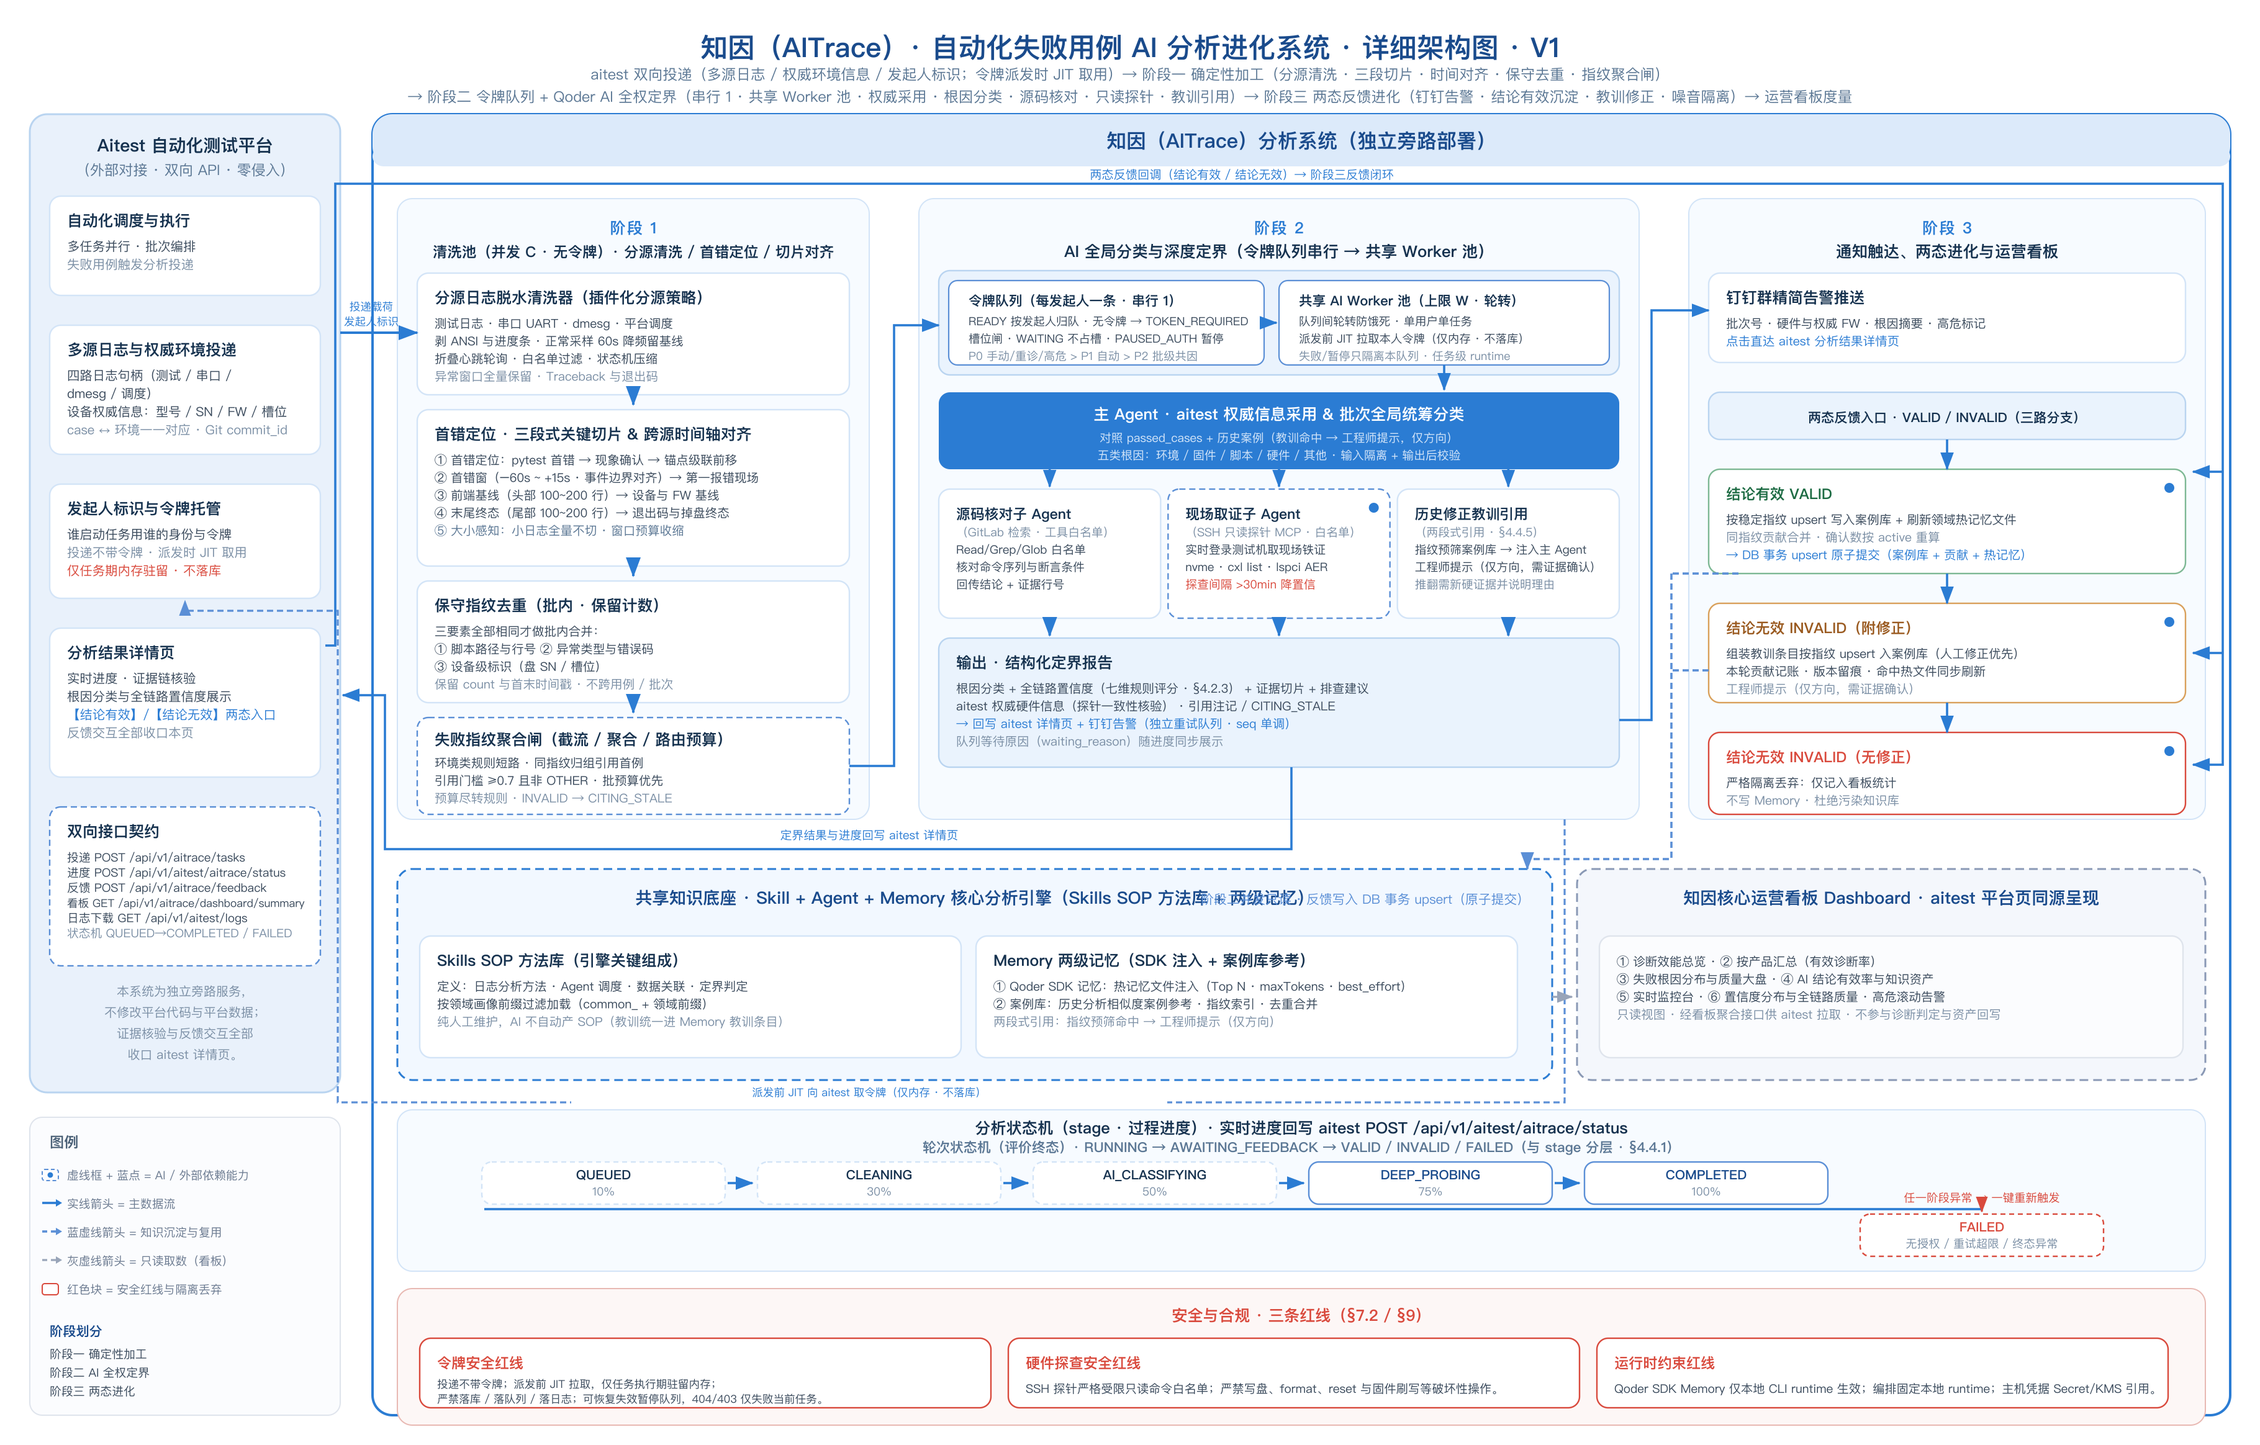
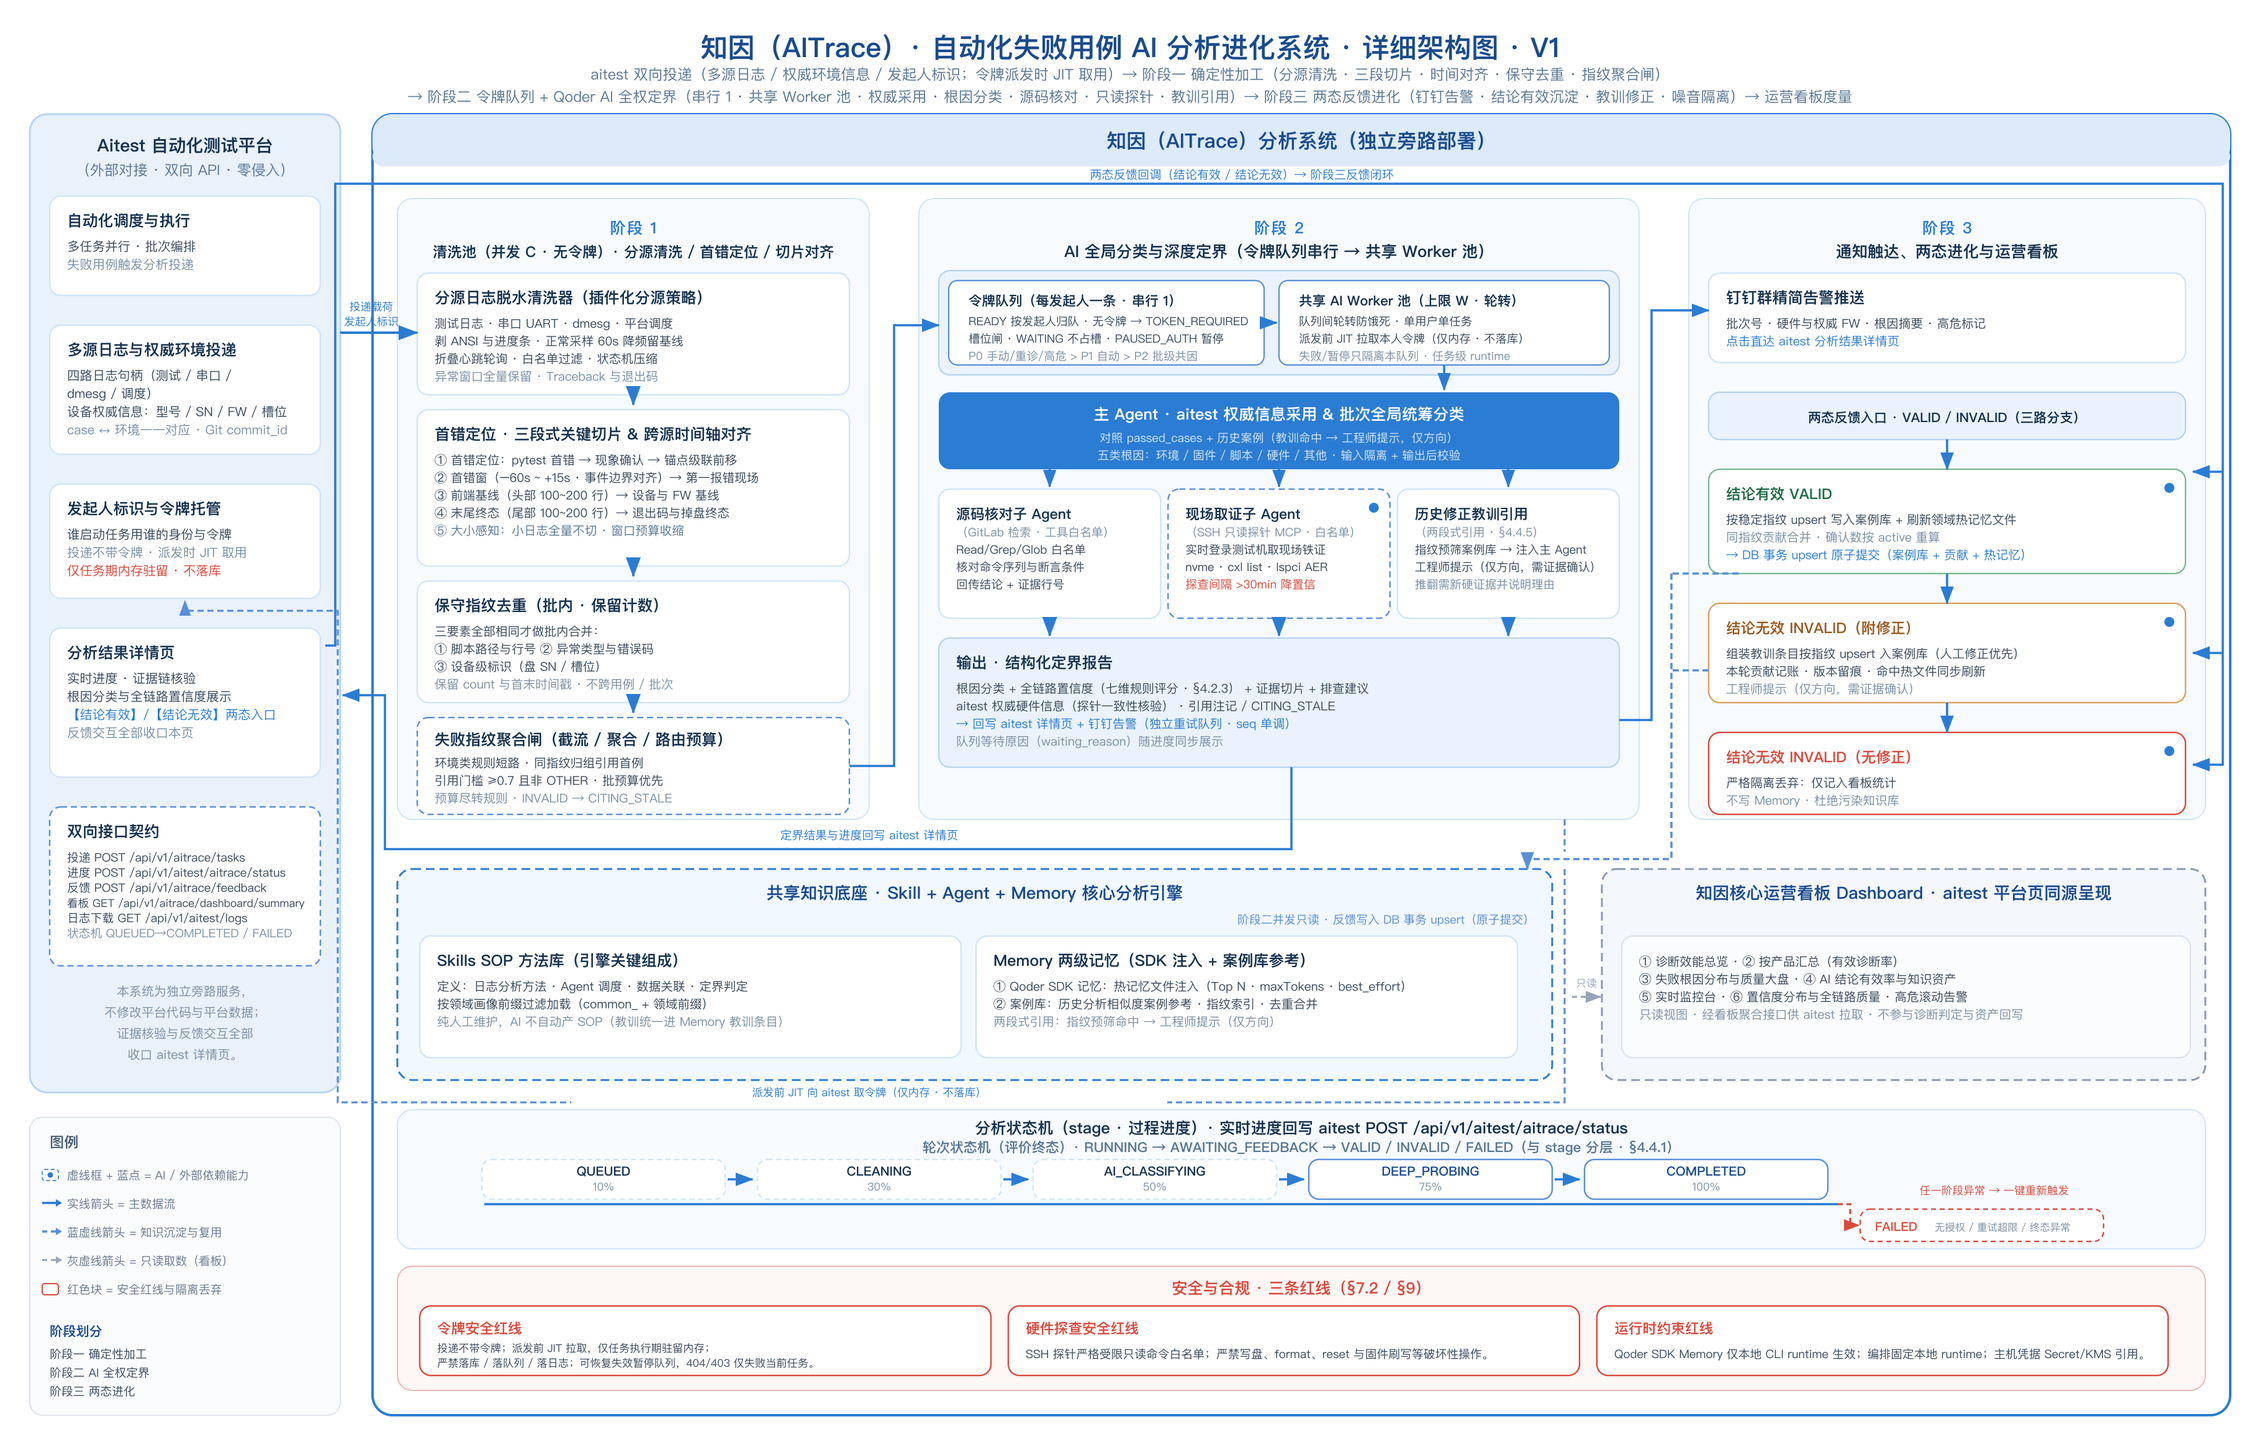
fig: 详版图修正知识底座标题重叠与虚线断口，压缩状态机与安全区收进外框底线并重渲染 PNG、同步 HTML

diff --git a/architecture-v1-detail.html b/architecture-v1-detail.html
@@ -189,8 +189,8 @@
 <line x1="1568.0" y1="462" x2="1568.0" y2="486" stroke="#2b7cd3" stroke-width="1.8" marker-end="url(#b)"/>
 <line x1="1568.0" y1="566" x2="1568.0" y2="590" stroke="#2b7cd3" stroke-width="1.8" marker-end="url(#b)"/>
 <rect x="320" y="700" width="930" height="170" rx="12" fill="#f2f8ff" stroke="#2b7cd3" stroke-width="1.5" stroke-dasharray="7 4"/>
-<text x="785.0" y="728" text-anchor="middle" font-size="13.6" font-weight="700" fill="#1a4b8c">共享知识底座 · Skill + Agent + Memory 核心分析引擎（Skills SOP 方法库 + 两级记忆）</text>
-<text x="1232" y="728" text-anchor="end" font-size="10.4" fill="#5b8fd6">阶段二并发只读 · 反馈写入 DB 事务 upsert（原子提交）</text>
+<text x="785.0" y="724" text-anchor="middle" font-size="13.6" font-weight="700" fill="#1a4b8c">共享知识底座 · Skill + Agent + Memory 核心分析引擎</text>
+<text x="1236" y="744" text-anchor="end" font-size="9.4" fill="#5b8fd6">阶段二并发只读 · 反馈写入 DB 事务 upsert（原子提交）</text>
 <rect x="338" y="754" width="436" height="98" rx="9" fill="#ffffff" stroke="#d3e4f7" stroke-width="1.2"/>
 <text x="352" y="778" font-size="12.4" font-weight="700" fill="#16324f">Skills SOP 方法库（引擎关键组成）</text>
 <text x="352" y="798.0" font-size="9.8" fill="#3a4a5c">定义：日志分析方法 · Agent 调度 · 数据关联 · 定界判定</text>
@@ -201,53 +201,53 @@
 <text x="800" y="798.0" font-size="9.8" fill="#3a4a5c">① Qoder SDK 记忆：热记忆文件注入（Top N · maxTokens · best_effort）</text>
 <text x="800" y="812.2" font-size="9.8" fill="#3a4a5c">② 案例库：历史分析相似度案例参考 · 指纹索引 · 去重合并</text>
 <text x="800" y="826.4" font-size="9.8" fill="#7b8fa5">两段式引用：指纹预筛命中 → 工程师提示（仅方向）</text>
-<rect x="1270" y="700" width="506" height="170" rx="12" fill="#f4f7fc" stroke="#8a99b5" stroke-width="1.5" stroke-dasharray="7 4"/>
-<text x="1523.0" y="728" text-anchor="middle" font-size="13.6" font-weight="700" fill="#1a4b8c">知因核心运营看板  Dashboard · aitest 平台页同源呈现</text>
-<rect x="1288" y="754" width="470" height="98" rx="9" fill="#fbfcfe" stroke="#dfe4ec" stroke-width="1.2"/>
-<text x="1302" y="778.0" font-size="9.8" fill="#3a4a5c">① 诊断效能总览 · ② 按产品汇总（有效诊断率）</text>
-<text x="1302" y="792.2" font-size="9.8" fill="#3a4a5c">③ 失败根因分布与质量大盘 · ④ AI 结论有效率与知识资产</text>
-<text x="1302" y="806.4" font-size="9.8" fill="#3a4a5c">⑤ 实时监控台 · ⑥ 置信度分布与全链路质量 · 高危滚动告警</text>
-<text x="1302" y="820.6" font-size="9.8" fill="#7b8fa5">只读视图 · 经看板聚合接口供 aitest 拉取 · 不参与诊断判定与资产回写</text>
-<rect x="320" y="894" width="1456" height="130" rx="12" fill="#f7fbff" stroke="#d3e4f7" stroke-width="1"/>
+<rect x="1290" y="700" width="486" height="170" rx="12" fill="#f4f7fc" stroke="#8a99b5" stroke-width="1.5" stroke-dasharray="7 4"/>
+<text x="1533.0" y="724" text-anchor="middle" font-size="13.6" font-weight="700" fill="#1a4b8c">知因核心运营看板  Dashboard · aitest 平台页同源呈现</text>
+<rect x="1306" y="754" width="458" height="98" rx="9" fill="#fbfcfe" stroke="#dfe4ec" stroke-width="1.2"/>
+<text x="1320" y="778.0" font-size="9.8" fill="#3a4a5c">① 诊断效能总览 · ② 按产品汇总（有效诊断率）</text>
+<text x="1320" y="792.2" font-size="9.8" fill="#3a4a5c">③ 失败根因分布与质量大盘 · ④ AI 结论有效率与知识资产</text>
+<text x="1320" y="806.4" font-size="9.8" fill="#3a4a5c">⑤ 实时监控台 · ⑥ 置信度分布与全链路质量 · 高危滚动告警</text>
+<text x="1320" y="820.6" font-size="9.8" fill="#7b8fa5">只读视图 · 经看板聚合接口供 aitest 拉取 · 不参与诊断判定与资产回写</text>
+<rect x="320" y="894" width="1456" height="112" rx="12" fill="#f7fbff" stroke="#d3e4f7" stroke-width="1"/>
 <text x="1048.0" y="913" text-anchor="middle" font-size="12.6" font-weight="700" fill="#16324f">分析状态机（stage · 过程进度）· 实时进度回写 aitest  POST /api/v1/aitest/aitrace/status</text>
 <text x="1048.0" y="928" text-anchor="middle" font-size="11" font-weight="600" fill="#5b7794">轮次状态机（评价终态）· RUNNING → AWAITING_FEEDBACK → VALID / INVALID / FAILED（与 stage 分层 · §4.4.1）</text>
-<rect x="388" y="936" width="196" height="34" rx="8" fill="#ffffff" stroke="#d3e4f7" stroke-width="1.2" stroke-dasharray="4 3"/>
-<text x="486.0" y="950" text-anchor="middle" font-size="10.4" font-weight="700" fill="#16324f">QUEUED</text>
-<text x="486.0" y="963" text-anchor="middle" font-size="9.2" fill="#7b8fa5">10%</text>
-<line x1="586" y1="953" x2="606" y2="953" stroke="#2b7cd3" stroke-width="1.8" marker-end="url(#b)"/>
-<rect x="610" y="936" width="196" height="34" rx="8" fill="#ffffff" stroke="#d3e4f7" stroke-width="1.2" stroke-dasharray="4 3"/>
-<text x="708.0" y="950" text-anchor="middle" font-size="10.4" font-weight="700" fill="#16324f">CLEANING</text>
-<text x="708.0" y="963" text-anchor="middle" font-size="9.2" fill="#7b8fa5">30%</text>
-<line x1="808" y1="953" x2="828" y2="953" stroke="#2b7cd3" stroke-width="1.8" marker-end="url(#b)"/>
-<rect x="832" y="936" width="196" height="34" rx="8" fill="#ffffff" stroke="#d3e4f7" stroke-width="1.2" stroke-dasharray="4 3"/>
-<text x="930.0" y="950" text-anchor="middle" font-size="10.4" font-weight="700" fill="#16324f">AI_CLASSIFYING</text>
-<text x="930.0" y="963" text-anchor="middle" font-size="9.2" fill="#7b8fa5">50%</text>
-<line x1="1030" y1="953" x2="1050" y2="953" stroke="#2b7cd3" stroke-width="1.8" marker-end="url(#b)"/>
-<rect x="1054" y="936" width="196" height="34" rx="8" fill="#ffffff" stroke="#5b8fd6" stroke-width="1.2"/>
-<text x="1152.0" y="950" text-anchor="middle" font-size="10.4" font-weight="700" fill="#1a4b8c">DEEP_PROBING</text>
-<text x="1152.0" y="963" text-anchor="middle" font-size="9.2" fill="#7b8fa5">75%</text>
-<line x1="1252" y1="953" x2="1272" y2="953" stroke="#2b7cd3" stroke-width="1.8" marker-end="url(#b)"/>
-<rect x="1276" y="936" width="196" height="34" rx="8" fill="#ffffff" stroke="#5b8fd6" stroke-width="1.2"/>
-<text x="1374.0" y="950" text-anchor="middle" font-size="10.4" font-weight="700" fill="#1a4b8c">COMPLETED</text>
-<text x="1374.0" y="963" text-anchor="middle" font-size="9.2" fill="#7b8fa5">100%</text>
-<rect x="1498" y="978" width="196" height="34" rx="8" fill="#ffffff" stroke="#d94a3d" stroke-width="1.2" stroke-dasharray="4 3"/>
-<text x="1596.0" y="992" text-anchor="middle" font-size="10.4" font-weight="700" fill="#d94a3d">FAILED</text>
-<text x="1596.0" y="1005" text-anchor="middle" font-size="9.2" fill="#7b8fa5">无授权 / 重试超限 / 终态异常</text>
-<path d="M 390 974 L 1596 974" fill="none" stroke="#2b7cd3" stroke-width="1.8"/>
-<line x1="1596" y1="974" x2="1596" y2="976" stroke="#d94a3d" stroke-width="1.6" stroke-dasharray="4 3" marker-end="url(#r)"/>
-<text x="1596.0" y="968" text-anchor="middle" font-size="9.2" fill="#d94a3d">任一阶段异常 → 一键重新触发</text>
-<rect x="320" y="1038" width="1456" height="110" rx="12" fill="#fdf7f6" stroke="#e8b9b3" stroke-width="1"/>
-<text x="1048.0" y="1064" text-anchor="middle" font-size="12.6" font-weight="700" fill="#d94a3d">安全与合规 · 三条红线（§7.2 / §9）</text>
-<rect x="338" y="1078" width="460" height="56" rx="9" fill="#ffffff" stroke="#d94a3d" stroke-width="1.2"/>
-<text x="352" y="1102" font-size="11.6" font-weight="700" fill="#d94a3d">令牌安全红线</text>
-<text x="352" y="1118.0" font-size="8.8" fill="#3a4a5c">投递不带令牌；派发前 JIT 拉取，仅任务执行期驻留内存；</text>
-<text x="352" y="1130.0" font-size="8.8" fill="#3a4a5c">严禁落库 / 落队列 / 落日志；可恢复失效暂停队列，404/403 仅失败当前任务。</text>
-<rect x="812" y="1078" width="460" height="56" rx="9" fill="#ffffff" stroke="#d94a3d" stroke-width="1.2"/>
-<text x="826" y="1102" font-size="11.6" font-weight="700" fill="#d94a3d">硬件探查安全红线</text>
-<text x="826" y="1122.0" font-size="9.6" fill="#3a4a5c">SSH 探针严格受限只读命令白名单；严禁写盘、format、reset 与固件刷写等破坏性操作。</text>
-<rect x="1286" y="1078" width="460" height="56" rx="9" fill="#ffffff" stroke="#d94a3d" stroke-width="1.2"/>
-<text x="1300" y="1102" font-size="11.6" font-weight="700" fill="#d94a3d">运行时约束红线</text>
-<text x="1300" y="1122.0" font-size="9.6" fill="#3a4a5c">Qoder SDK Memory 仅本地 CLI runtime 生效；编排固定本地 runtime；主机凭据 Secret/KMS 引用。</text>
+<rect x="388" y="934" width="196" height="32" rx="8" fill="#ffffff" stroke="#d3e4f7" stroke-width="1.2" stroke-dasharray="4 3"/>
+<text x="486.0" y="947" text-anchor="middle" font-size="10.2" font-weight="700" fill="#16324f">QUEUED</text>
+<text x="486.0" y="959" text-anchor="middle" font-size="8.8" fill="#7b8fa5">10%</text>
+<line x1="586" y1="950" x2="606" y2="950" stroke="#2b7cd3" stroke-width="1.8" marker-end="url(#b)"/>
+<rect x="610" y="934" width="196" height="32" rx="8" fill="#ffffff" stroke="#d3e4f7" stroke-width="1.2" stroke-dasharray="4 3"/>
+<text x="708.0" y="947" text-anchor="middle" font-size="10.2" font-weight="700" fill="#16324f">CLEANING</text>
+<text x="708.0" y="959" text-anchor="middle" font-size="8.8" fill="#7b8fa5">30%</text>
+<line x1="808" y1="950" x2="828" y2="950" stroke="#2b7cd3" stroke-width="1.8" marker-end="url(#b)"/>
+<rect x="832" y="934" width="196" height="32" rx="8" fill="#ffffff" stroke="#d3e4f7" stroke-width="1.2" stroke-dasharray="4 3"/>
+<text x="930.0" y="947" text-anchor="middle" font-size="10.2" font-weight="700" fill="#16324f">AI_CLASSIFYING</text>
+<text x="930.0" y="959" text-anchor="middle" font-size="8.8" fill="#7b8fa5">50%</text>
+<line x1="1030" y1="950" x2="1050" y2="950" stroke="#2b7cd3" stroke-width="1.8" marker-end="url(#b)"/>
+<rect x="1054" y="934" width="196" height="32" rx="8" fill="#ffffff" stroke="#5b8fd6" stroke-width="1.2"/>
+<text x="1152.0" y="947" text-anchor="middle" font-size="10.2" font-weight="700" fill="#1a4b8c">DEEP_PROBING</text>
+<text x="1152.0" y="959" text-anchor="middle" font-size="8.8" fill="#7b8fa5">75%</text>
+<line x1="1252" y1="950" x2="1272" y2="950" stroke="#2b7cd3" stroke-width="1.8" marker-end="url(#b)"/>
+<rect x="1276" y="934" width="196" height="32" rx="8" fill="#ffffff" stroke="#5b8fd6" stroke-width="1.2"/>
+<text x="1374.0" y="947" text-anchor="middle" font-size="10.2" font-weight="700" fill="#1a4b8c">COMPLETED</text>
+<text x="1374.0" y="959" text-anchor="middle" font-size="8.8" fill="#7b8fa5">100%</text>
+<rect x="1498" y="974" width="196" height="26" rx="8" fill="#ffffff" stroke="#d94a3d" stroke-width="1.2" stroke-dasharray="4 3"/>
+<text x="1510.0" y="991.5" font-size="9.8" font-weight="700" fill="#d94a3d">FAILED</text>
+<text x="1558.0" y="991.5" font-size="8.2" fill="#7b8fa5">无授权 / 重试超限 / 终态异常</text>
+<path d="M 390 970 L 1480 970" fill="none" stroke="#2b7cd3" stroke-width="1.8"/>
+<path d="M 1480 970 L 1490 970 L 1490 987 L 1497 987" fill="none" stroke="#d94a3d" stroke-width="1.6" stroke-dasharray="4 3" marker-end="url(#r)"/>
+<text x="1606.0" y="962" text-anchor="middle" font-size="8.8" fill="#d94a3d">任一阶段异常 → 一键重新触发</text>
+<rect x="320" y="1020" width="1456" height="100" rx="12" fill="#fdf7f6" stroke="#e8b9b3" stroke-width="1"/>
+<text x="1048.0" y="1042" text-anchor="middle" font-size="12.6" font-weight="700" fill="#d94a3d">安全与合规 · 三条红线（§7.2 / §9）</text>
+<rect x="338" y="1052" width="460" height="56" rx="9" fill="#ffffff" stroke="#d94a3d" stroke-width="1.2"/>
+<text x="352" y="1074" font-size="11.4" font-weight="700" fill="#d94a3d">令牌安全红线</text>
+<text x="352" y="1089.0" font-size="8.6" fill="#3a4a5c">投递不带令牌；派发前 JIT 拉取，仅任务执行期驻留内存；</text>
+<text x="352" y="1101.0" font-size="8.6" fill="#3a4a5c">严禁落库 / 落队列 / 落日志；可恢复失效暂停队列，404/403 仅失败当前任务。</text>
+<rect x="812" y="1052" width="460" height="56" rx="9" fill="#ffffff" stroke="#d94a3d" stroke-width="1.2"/>
+<text x="826" y="1074" font-size="11.4" font-weight="700" fill="#d94a3d">硬件探查安全红线</text>
+<text x="826" y="1094.0" font-size="9.4" fill="#3a4a5c">SSH 探针严格受限只读命令白名单；严禁写盘、format、reset 与固件刷写等破坏性操作。</text>
+<rect x="1286" y="1052" width="460" height="56" rx="9" fill="#ffffff" stroke="#d94a3d" stroke-width="1.2"/>
+<text x="1300" y="1074" font-size="11.4" font-weight="700" fill="#d94a3d">运行时约束红线</text>
+<text x="1300" y="1094.0" font-size="9.4" fill="#3a4a5c">Qoder SDK Memory 仅本地 CLI runtime 生效；编排固定本地 runtime；主机凭据 Secret/KMS 引用。</text>
 <line x1="274" y1="268" x2="336" y2="268" stroke="#2b7cd3" stroke-width="2" marker-end="url(#b)"/>
 <text x="299" y="250" text-anchor="middle" font-size="8.8" fill="#2b7cd3">投递载荷</text>
 <text x="299" y="262" text-anchor="middle" font-size="8.8" fill="#2b7cd3">发起人标识</text>
@@ -260,8 +260,10 @@
 <path d="M 1304 580 L 1330 580 L 1330 250 L 1376 250" fill="none" stroke="#2b7cd3" stroke-width="1.8" marker-end="url(#b)"/>
 <path d="M 1400 462 L 1346 462" fill="none" stroke="#5b8fd6" stroke-width="1.8" stroke-dasharray="5 3"/>
 <path d="M 1376 540 L 1346 540" fill="none" stroke="#5b8fd6" stroke-width="1.8" stroke-dasharray="5 3"/>
+<rect x="1252" y="686" width="16" height="11" fill="#ffffff"/>
 <path d="M 1346 462 L 1346 692 L 1230 692 L 1230 700" fill="none" stroke="#5b8fd6" stroke-width="1.8" stroke-dasharray="5 3" marker-end="url(#bd)"/>
-<line x1="1250" y1="803" x2="1266" y2="803" stroke="#98a4b8" stroke-width="1.6" stroke-dasharray="4 3" marker-end="url(#g)"/>
+<line x1="1266" y1="803" x2="1289" y2="803" stroke="#98a4b8" stroke-width="1.6" stroke-dasharray="4 3" marker-end="url(#g)"/>
+<text x="1277.5" y="795" text-anchor="middle" font-size="8.4" fill="#98a4b8">只读</text>
 <path d="M 262 520 L 270 520 L 270 148 L 1790 148 L 1790 616 L 1766 616" fill="none" stroke="#2b7cd3" stroke-width="1.8" marker-end="url(#b)"/>
 <path d="M 1790 380 L 1766 380" fill="none" stroke="#2b7cd3" stroke-width="1.8" marker-end="url(#b)"/>
 <path d="M 1790 526 L 1766 526" fill="none" stroke="#2b7cd3" stroke-width="1.8" marker-end="url(#b)"/>
